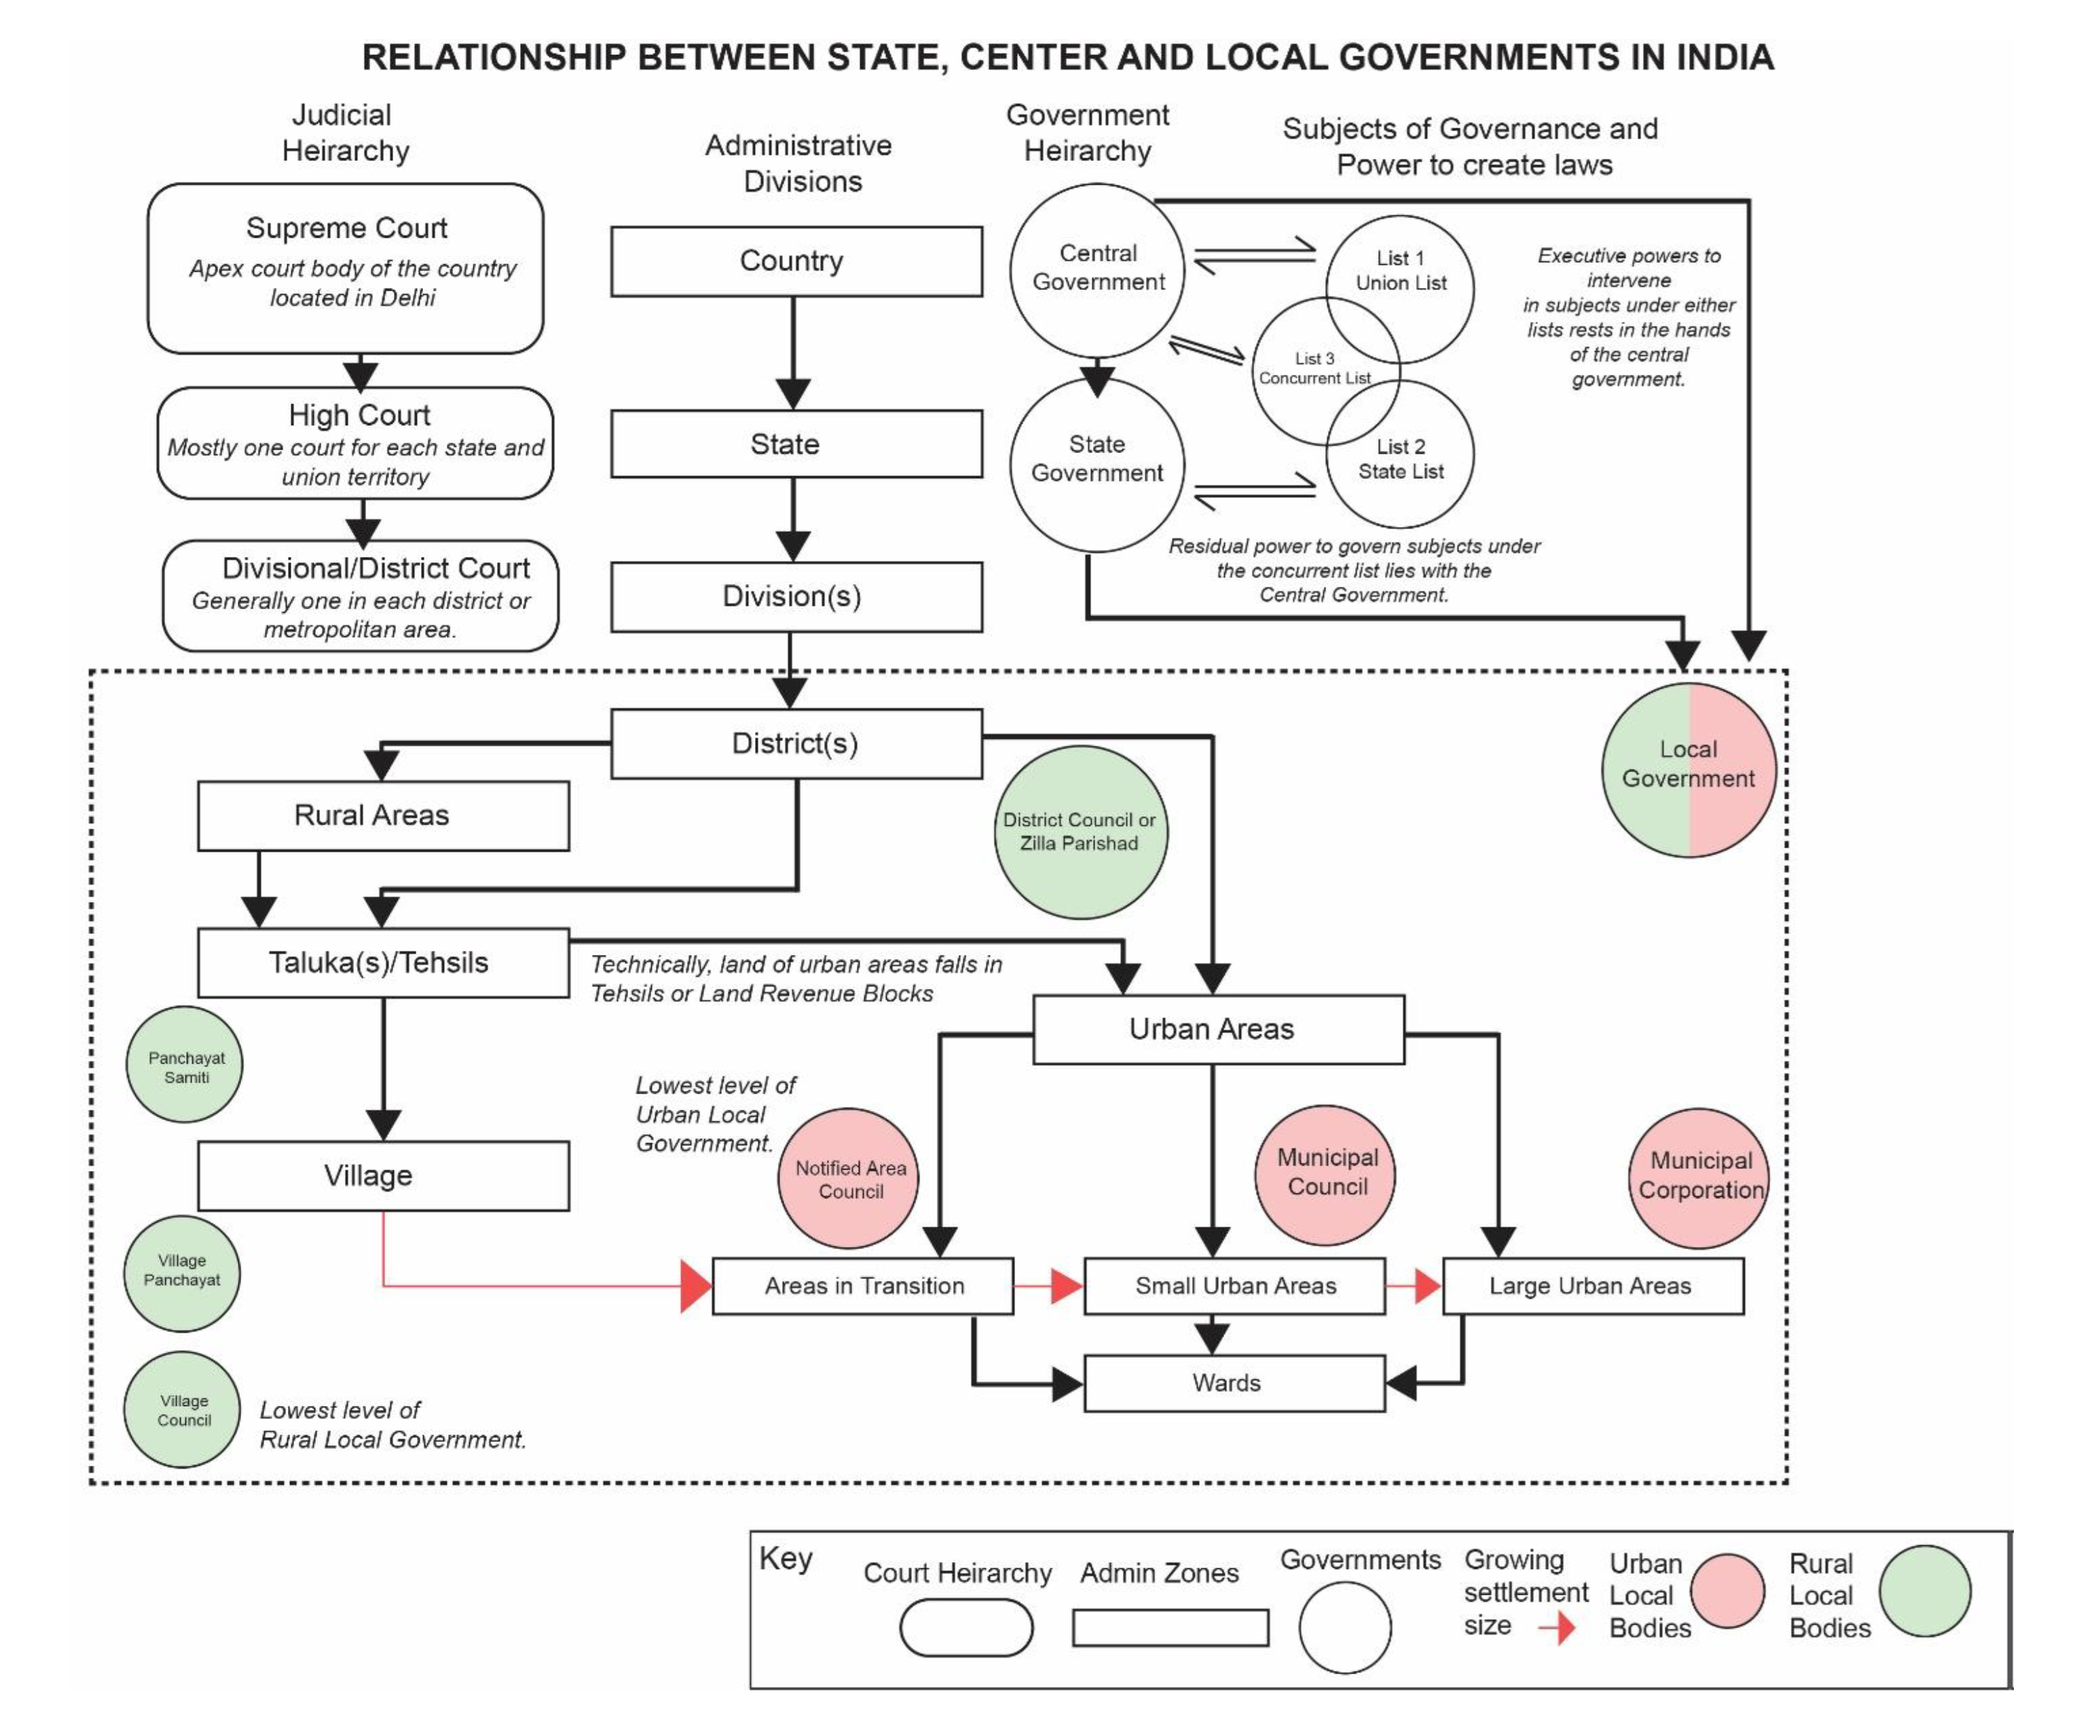
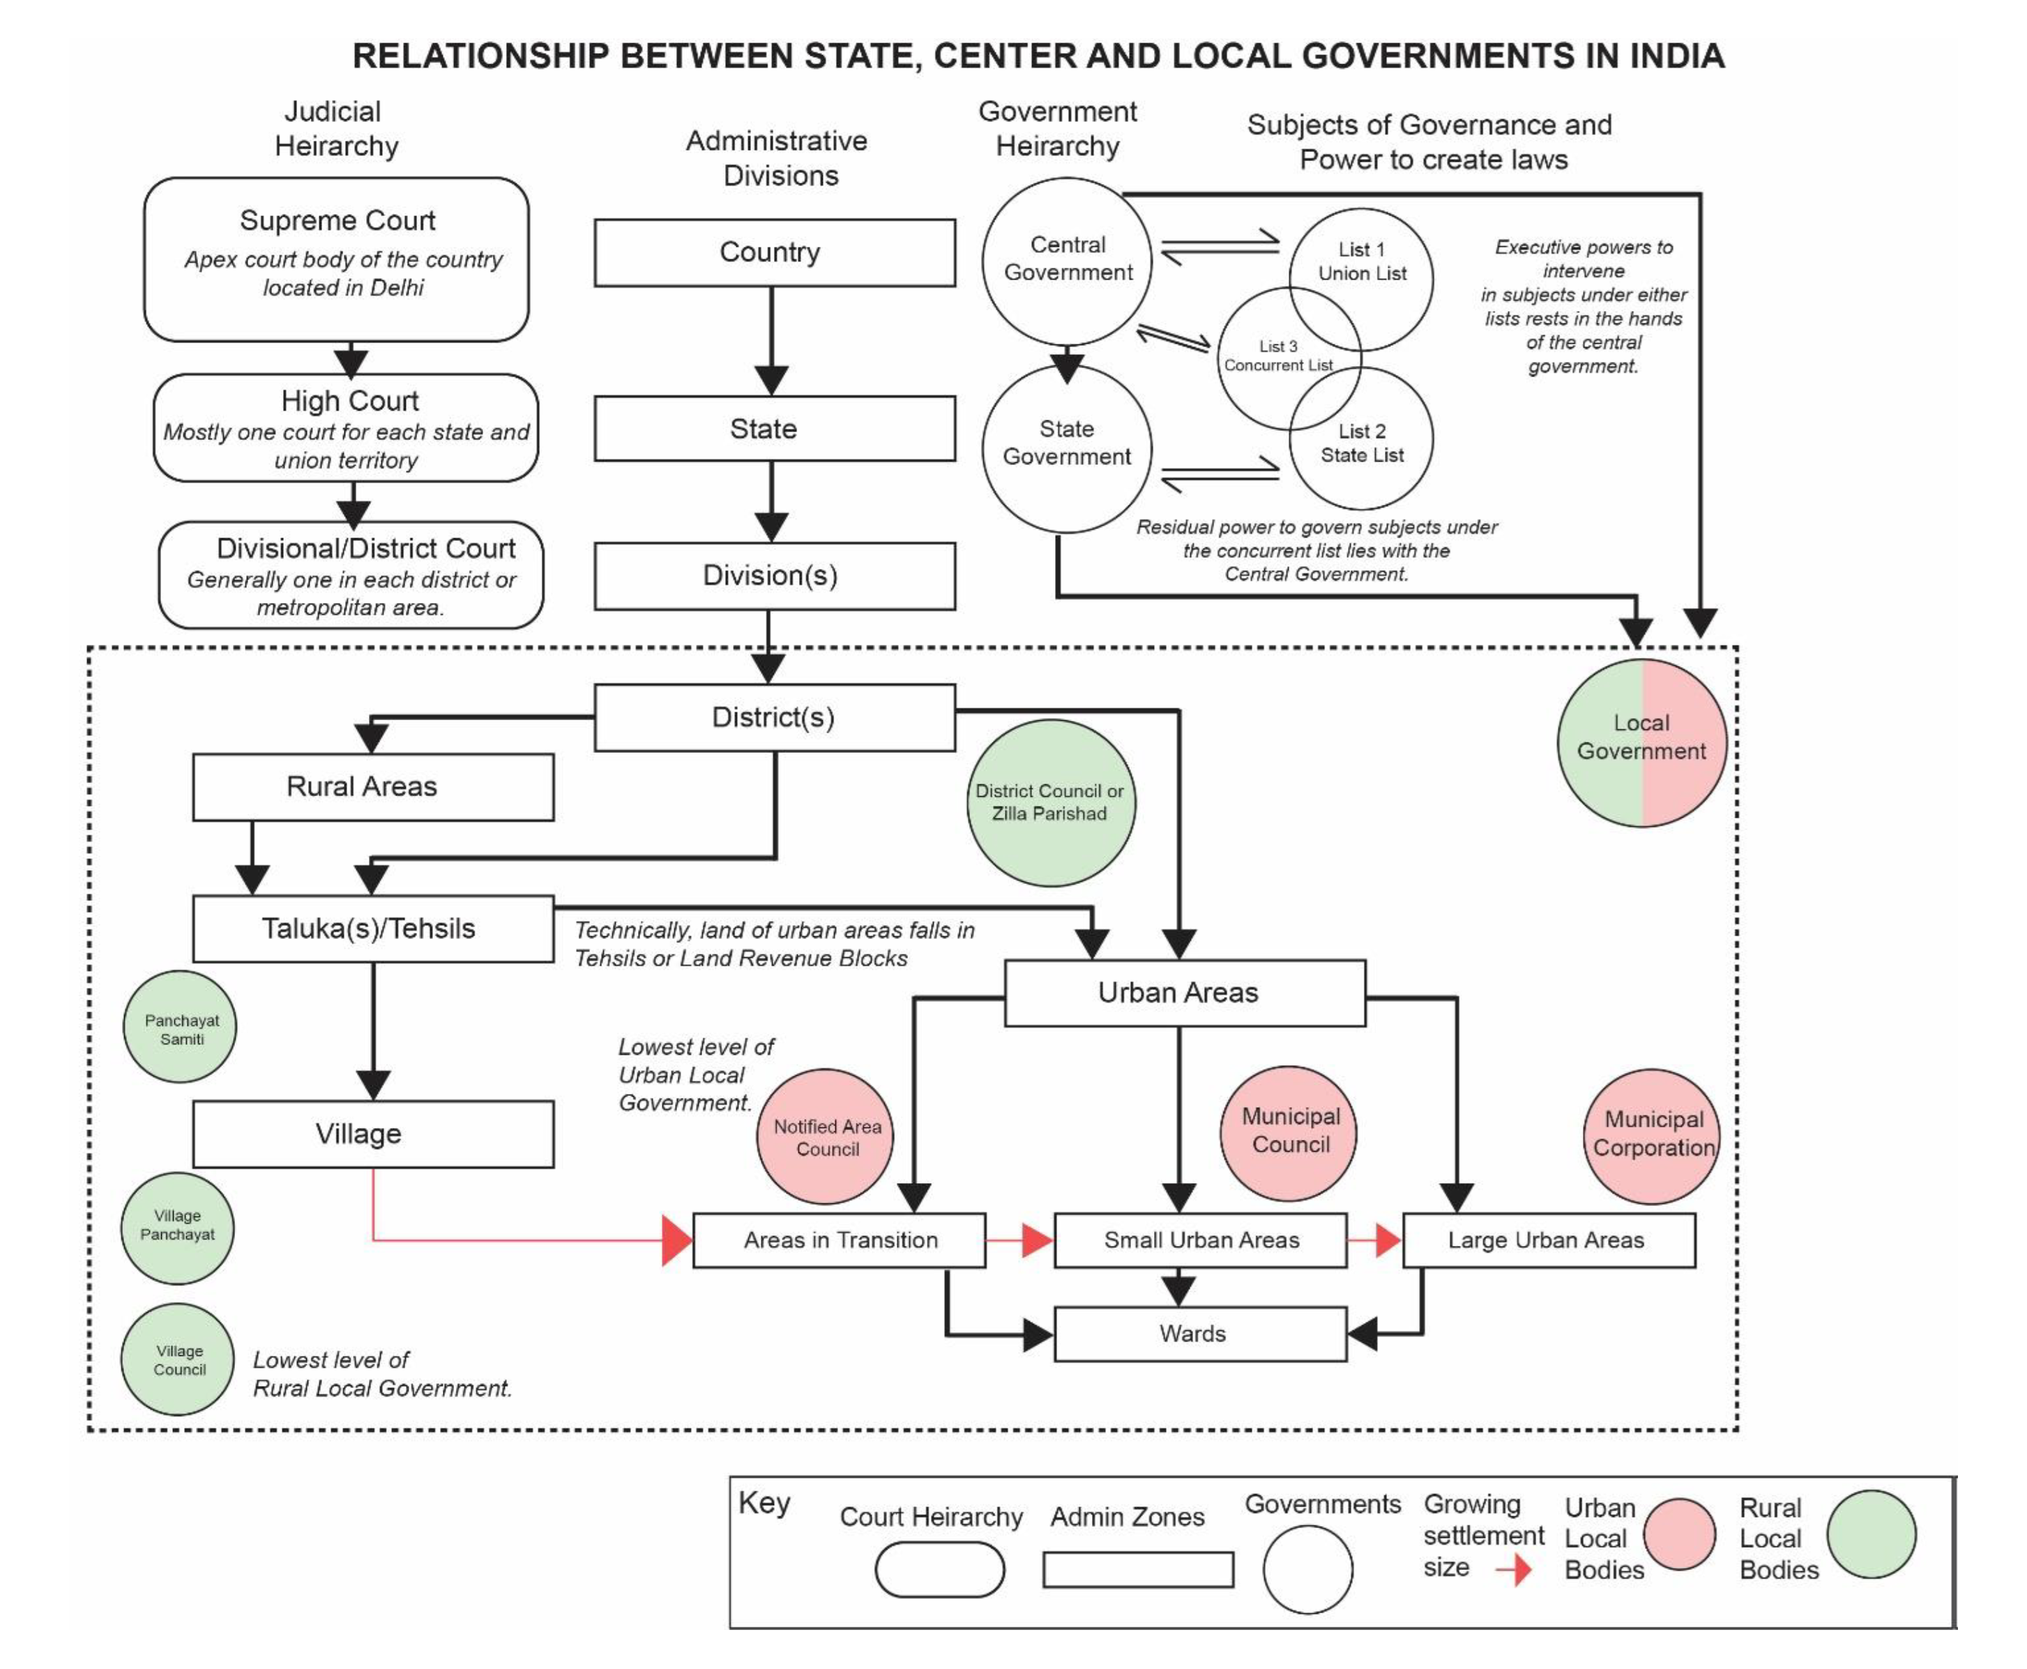
update to astro.js + project updates

diff --git a/src/content/projects/Expert-Consultation-NWP.md b/src/content/projects/Expert-Consultation-NWP.md
@@ -1,0 +1,16 @@
+---
+title: "Expert Consultations: National Water Policy of India"
+summary: A series of papers and presentations on the potential of agricultural crop substitution to bridge urban water demand. 
+year: 2020
+order: 28
+image: ./images/nwp-1.png, ./images/nwp-2.png, ./images/nwp-3.png, ./images/nwp-4.png
+imageAlt: IWP article, Presentation Slide (Estimates), Hydropolitics Brief, Video Screenshot
+technologies:
+  - language: GIS
+    tools:
+      - QGIS  
+  - language: Programming
+    tools:
+      - R, VBA
+---
+
